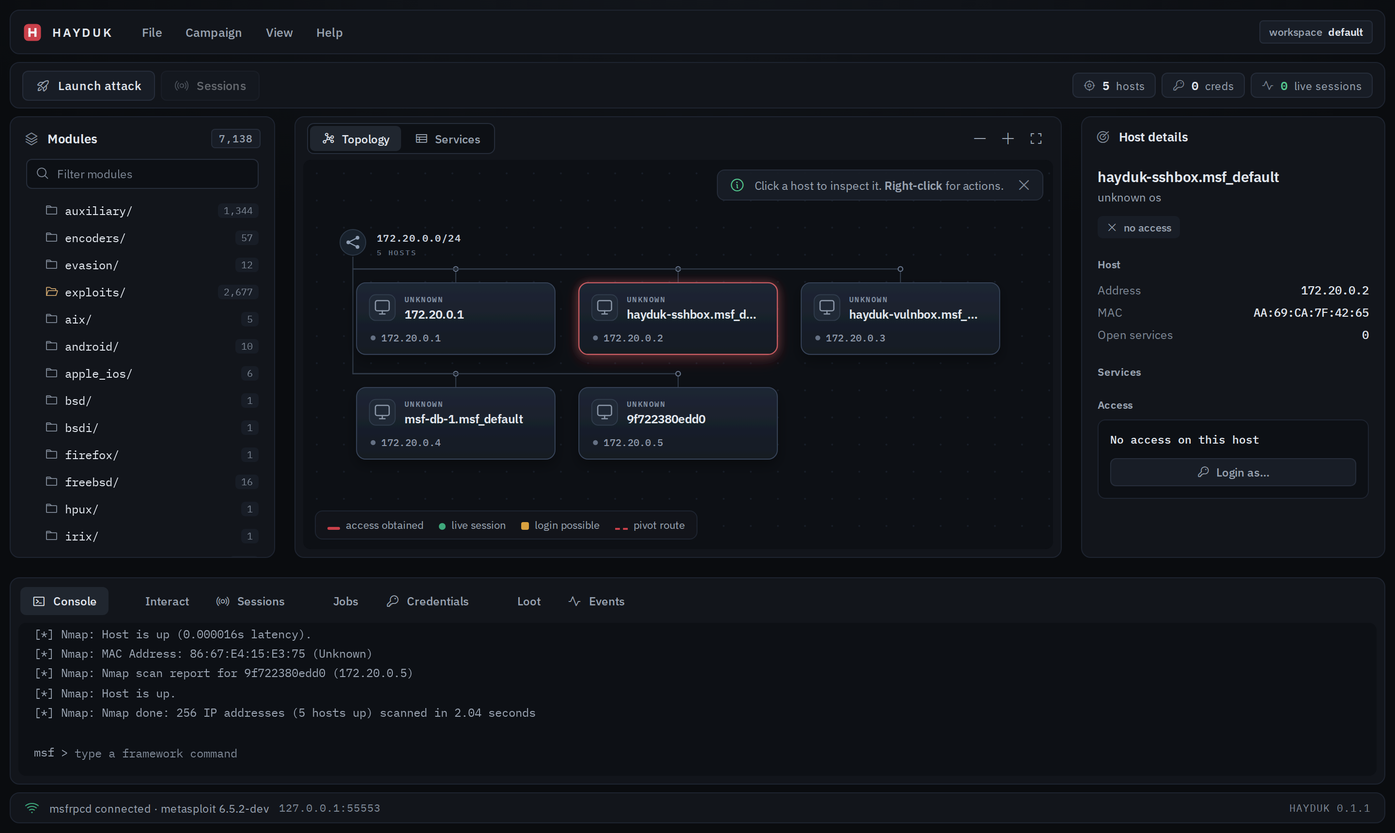
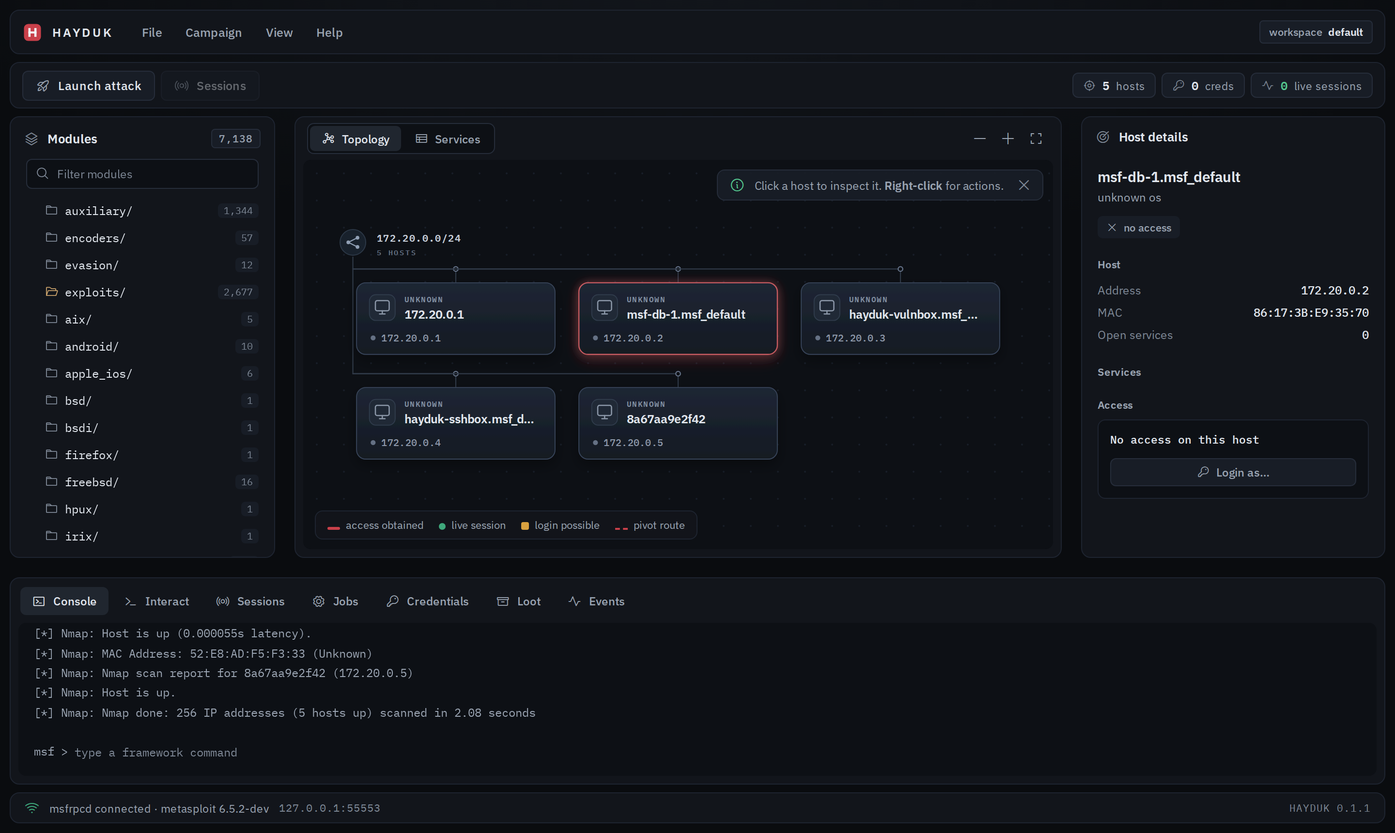
UI: ship every glyph the source renders, verify the subset
The icon scan could not see names built from data at runtime - tab
tuples, ternary icon values - so check, terminal, gear and archive were
missing from the subset: empty notebook tab icons and no workspace
checkmark in the shipped build. The scan now takes every quoted string
that is a real phosphor name (over-inclusion costs bytes, under-
inclusion costs icons), and a vitest guard asserts every renderable
glyph has a :before rule before the dist can ship. Screenshot retaken
with the tab icons back.

diff --git a/internal/server/dist/assets/index-DT3u4rux.css b/internal/server/dist/assets/index-DT3u4rux.css
@@ -1,0 +1,1 @@
+@font-face{font-family:IBM Plex Sans;font-style:normal;font-display:swap;font-weight:400;src:url(/assets/ibm-plex-sans-latin-400-normal-CDDApCn2.woff2)format("woff2"),url(/assets/ibm-plex-sans-latin-400-normal-CYLoc0-x.woff)format("woff")}@font-face{font-family:IBM Plex Sans;font-style:normal;font-display:swap;font-weight:500;src:url(/assets/ibm-plex-sans-latin-500-normal-6ng42L7E.woff2)format("woff2"),url(/assets/ibm-plex-sans-latin-500-normal-BgVn5rGT.woff)format("woff")}@font-face{font-family:IBM Plex Sans;font-style:normal;font-display:swap;font-weight:600;src:url(/assets/ibm-plex-sans-latin-600-normal-CuJfVYMP.woff2)format("woff2"),url(/assets/ibm-plex-sans-latin-600-normal-Cu4Hd6ag.woff)format("woff")}@font-face{font-family:IBM Plex Mono;font-style:normal;font-display:swap;font-weight:400;src:url(/assets/ibm-plex-mono-latin-400-normal-DMJ8VG8y.woff2)format("woff2"),url(/assets/ibm-plex-mono-latin-400-normal-CvHOgSBP.woff)format("woff")}@font-face{font-family:IBM Plex Mono;font-style:normal;font-display:swap;font-weight:500;src:url(/assets/ibm-plex-mono-latin-500-normal-DSY6xOcd.woff2)format("woff2"),url(/assets/ibm-plex-mono-latin-500-normal-CB9ihrfo.woff)format("woff")}@font-face{font-family:IBM Plex Mono;font-style:normal;font-display:swap;font-weight:600;src:url(/assets/ibm-plex-mono-latin-600-normal-BgSNZQsw.woff2)format("woff2"),url(/assets/ibm-plex-mono-latin-600-normal-DWFSQ4vo.woff)format("woff")}@font-face{font-family:Phosphor;src:url(/assets/phosphor-regular-DLvzip6m.woff2)format("woff2");font-weight:400;font-style:normal;font-display:block}@font-face{font-family:Phosphor-Fill;src:url(/assets/phosphor-fill-vd_PAWfC.woff2)format("woff2");font-weight:400;font-style:normal;font-display:block}.ph{font-variant:normal;text-transform:none;-webkit-font-smoothing:antialiased;-moz-osx-font-smoothing:grayscale;font-style:normal;font-weight:400;line-height:1;font-family:Phosphor!important}.ph-fill{font-variant:normal;text-transform:none;-webkit-font-smoothing:antialiased;-moz-osx-font-smoothing:grayscale;font-style:normal;font-weight:400;line-height:1;font-family:Phosphor-Fill!important}.ph.ph-archive:before,.ph-fill.ph-archive:before{content:""}.ph.ph-arrows-clockwise:before,.ph-fill.ph-arrows-clockwise:before{content:""}.ph.ph-arrows-out-simple:before,.ph-fill.ph-arrows-out-simple:before{content:""}.ph.ph-broadcast:before,.ph-fill.ph-broadcast:before{content:""}.ph.ph-check:before,.ph-fill.ph-check:before{content:""}.ph.ph-command:before,.ph-fill.ph-command:before{content:""}.ph.ph-copy:before,.ph-fill.ph-copy:before{content:""}.ph.ph-corners-out:before,.ph-fill.ph-corners-out:before{content:""}.ph.ph-crosshair:before,.ph-fill.ph-crosshair:before{content:""}.ph.ph-dots-nine:before,.ph-fill.ph-dots-nine:before{content:""}.ph.ph-download-simple:before,.ph-fill.ph-download-simple:before{content:""}.ph.ph-file-code:before,.ph-fill.ph-file-code:before{content:""}.ph.ph-fire:before,.ph-fill.ph-fire:before{content:""}.ph.ph-folder:before,.ph-fill.ph-folder:before{content:""}.ph.ph-folder-open:before,.ph-fill.ph-folder-open:before{content:""}.ph.ph-gear:before,.ph-fill.ph-gear:before{content:""}.ph.ph-graph:before,.ph-fill.ph-graph:before{content:""}.ph.ph-info:before,.ph-fill.ph-info:before{content:""}.ph.ph-key:before,.ph-fill.ph-key:before{content:""}.ph.ph-keyboard:before,.ph-fill.ph-keyboard:before{content:""}.ph.ph-lightning:before,.ph-fill.ph-lightning:before{content:""}.ph.ph-magnifying-glass:before,.ph-fill.ph-magnifying-glass:before{content:""}.ph.ph-minus:before,.ph-fill.ph-minus:before{content:""}.ph.ph-password:before,.ph-fill.ph-password:before{content:""}.ph.ph-pi:before,.ph-fill.ph-pi:before{content:""}.ph.ph-plug:before,.ph-fill.ph-plug:before{content:""}.ph.ph-plus:before,.ph-fill.ph-plus:before{content:""}.ph.ph-pulse:before,.ph-fill.ph-pulse:before{content:""}.ph.ph-resize:before,.ph-fill.ph-resize:before{content:""}.ph.ph-rocket-launch:before,.ph-fill.ph-rocket-launch:before{content:""}.ph.ph-signpost:before,.ph-fill.ph-signpost:before{content:""}.ph.ph-stack:before,.ph-fill.ph-stack:before{content:""}.ph.ph-table:before,.ph-fill.ph-table:before{content:""}.ph.ph-target:before,.ph-fill.ph-target:before{content:""}.ph.ph-terminal:before,.ph-fill.ph-terminal:before{content:""}.ph.ph-terminal-window:before,.ph-fill.ph-terminal-window:before{content:""}.ph.ph-tree:before,.ph-fill.ph-tree:before{content:""}.ph.ph-user:before,.ph-fill.ph-user:before{content:""}.ph.ph-users-three:before,.ph-fill.ph-users-three:before{content:""}.ph.ph-wifi-high:before,.ph-fill.ph-wifi-high:before{content:""}.ph.ph-wifi-slash:before,.ph-fill.ph-wifi-slash:before{content:""}.ph.ph-x:before,.ph-fill.ph-x:before{content:""}:root{--bg0:#0a0c0f;--bg1:#12151b;--bg2:#181d26;--bg3:#20262f;--well:#0d1015;--cardline:#1e2430;--line:#262d3a;--tx0:#e2e7ee;--tx1:#9aa4b2;--tx2:#7e8896;--red:#c9404a;--red-hi:#d54954;--red-br:#e2666b;--red-dim:#c9404a29;--grn:#3fa87c;--grn-tx:#55c78f;--grn-dim:#3fa87c29;--amb:#d9a13f;--amb-dim:#d9a13f24;--sans:"IBM Plex Sans",system-ui,-apple-system,"Segoe UI",sans-serif;--mono:"IBM Plex Mono",ui-monospace,"Cascadia Mono",Menlo,Consolas,monospace;--shadow:0 16px 46px #00000080}*{box-sizing:border-box;margin:0;padding:0}html,body{height:100%}body{background:var(--bg0);color:var(--tx0);font:400 13px/1.5 var(--sans);-webkit-font-smoothing:antialiased;background-image:radial-gradient(1200px 500px at 50% -10%,#262d3a59,#0000 70%);padding:10px;overflow:hidden}button{font:inherit;color:inherit;cursor:pointer;background:0 0;border:0}button:disabled{opacity:.4;cursor:not-allowed}:focus-visible{outline:2px solid var(--red-br);outline-offset:1px;border-radius:4px}::selection{background:var(--red-dim)}::-webkit-scrollbar{width:10px;height:10px}::-webkit-scrollbar-thumb{border:3px solid var(--bg1);background:#262d3a;border-radius:6px}::-webkit-scrollbar-track{background:0 0}*{scrollbar-width:thin;scrollbar-color:#262d3a transparent}i.ph,i.ph-fill{flex:none;justify-content:center;align-items:center;width:16px;height:16px;font-size:16px;display:inline-flex}kbd{font:500 10.5px var(--mono);background:var(--well);border:1px solid var(--line);color:var(--tx1);border-bottom-width:2px;border-radius:4px;padding:2px 6px}.app{grid-template-columns:var(--w-left,274px) 4px minmax(0,1fr) 4px var(--w-right,314px);grid-template-rows:auto auto minmax(0,1fr) 4px var(--h-nb,214px) auto;grid-template-areas:"men men men men men""tool tool tool tool tool""left lsp stage rsp right""nsp nsp nsp nsp nsp""nb nb nb nb nb""st st st st st";gap:8px;height:calc(100dvh - 20px);display:grid}.splitter{z-index:40;background:0 0;border-radius:2px;transition:background .12s}.splitter:hover,.splitter.active{background:var(--line)}.splitter.lsp{cursor:col-resize;grid-area:lsp;margin:-2px -8px}.splitter.rsp{cursor:col-resize;grid-area:rsp;margin:-2px -8px}.splitter.nsp{cursor:row-resize;grid-area:nsp;margin:-8px -2px}.card{background:var(--bg1);border:1px solid var(--cardline);border-radius:10px;min-width:0;min-height:0}.menubar{-webkit-user-select:none;user-select:none;grid-area:men;align-items:center;gap:2px;height:46px;padding:0 12px;display:flex}.brand{align-items:center;gap:10px;margin-right:16px;display:flex}.brand svg{display:block}.brand .word{font:600 12.5px var(--sans);letter-spacing:.15em}.mbtn{height:29px;font:500 12.5px var(--sans);color:var(--tx1);border-radius:6px;padding:0 11px}.mbtn:hover,.mbtn.open{background:var(--bg2);color:var(--tx0)}.menubar .spacer{flex:1}.chip{border:1px solid var(--line);background:var(--bg2);height:24px;font:500 11px var(--sans);color:var(--tx1);border-radius:4px;align-items:center;gap:6px;padding:0 9px;display:inline-flex}.chip b{color:var(--tx0);font-weight:600}.toolbar{-webkit-user-select:none;user-select:none;grid-area:tool;align-items:center;gap:6px;height:48px;padding:0 12px;display:flex}.tdiv{background:var(--line);width:1px;height:20px;margin:0 5px}.toolbar .spacer{flex:1}.sumchips{gap:6px;display:flex}.schip{background:var(--bg2);border:1px solid var(--line);height:26px;font:400 11.5px var(--sans);color:var(--tx1);border-radius:6px;align-items:center;gap:7px;padding:0 10px;display:inline-flex}.schip i{width:13px;height:13px;color:var(--tx2);font-size:13px}.schip b{font:600 12px var(--mono);color:var(--tx0)}.schip .grn{color:var(--grn-tx)}.left{flex-direction:column;grid-area:left;display:flex}.panelhead{align-items:center;gap:9px;padding:12px 14px 9px;display:flex}.panelhead>i{color:var(--tx2);width:15px;height:15px;font-size:15px}.panelhead .pt{font:600 13px var(--sans);color:var(--tx0)}.panelhead .pc{font:500 10.5px var(--mono);color:var(--tx1);background:var(--bg2);border:1px solid var(--line);border-radius:4px;margin-left:auto;padding:2px 7px}.tree{-webkit-user-select:none;user-select:none;flex:1;padding:2px 8px 14px;overflow-y:auto}.tree ul{list-style:none}.trow{width:100%;height:28px;font:400 12px var(--mono);color:var(--tx0);text-align:left;border-radius:6px;align-items:center;gap:7px;padding:0 8px;display:flex}.trow:hover{background:var(--bg2)}.trow .caret{color:var(--tx2);width:12px;height:12px;font-size:12px}.trow .fic{color:var(--tx2);width:14px;height:14px;font-size:14px}.trow.expanded .fic{color:#c7a06a}.trow .tlabel{text-overflow:ellipsis;white-space:nowrap;min-width:0;overflow:hidden}.trow .cnt{font:400 10px var(--mono);color:var(--tx2);background:var(--bg2);border-radius:4px;flex:none;margin-left:auto;padding:1px 6px}.trow.leaf{padding-left:37px}.trow.leaf .mfil{color:var(--tx2);width:13px;height:13px;font-size:13px}.trow .rankchip{font:500 9px var(--mono);letter-spacing:.05em;color:var(--tx2);background:var(--bg2);border-radius:4px;flex:none;margin-left:auto;padding:1px 5px}.trow .rankchip.hot{color:var(--red-br);border:1px solid var(--red);padding:0 4px}.tree .noresult{font:400 12px var(--sans);color:var(--tx2);padding:16px 12px;display:none}.tree.filtered .noresult{display:block}.tree .filterbox{margin:0 8px 8px}.stage{flex-direction:column;grid-area:stage;display:flex}.stagehead{-webkit-user-select:none;user-select:none;align-items:center;gap:10px;height:44px;padding:0 12px;display:flex}.stagehead .spacer{flex:1}.stagebody{background:var(--well);border-radius:8px;flex:1;margin:0 8px 8px;position:relative;overflow:hidden}.view{position:absolute;inset:0}.view[hidden]{display:none}#topo{cursor:default;touch-action:none;-webkit-user-select:none;user-select:none;width:100%;height:100%;display:block;position:absolute;inset:0}#topo.panning{cursor:grabbing}.svcwrap{padding:4px 8px 16px;position:absolute;inset:0;overflow:auto}.right{flex-direction:column;grid-area:right;display:flex}.ins{flex:1;padding:14px 16px 20px;overflow-y:auto}.ihost{justify-content:space-between;align-items:flex-start;gap:10px;display:flex}.iname{font:600 15px var(--sans)}.ios{font:400 12px var(--sans);color:var(--tx1);align-items:center;gap:6px;margin-top:4px;display:flex}.ios i{width:14px;height:14px;color:var(--tx2);font-size:14px}.badges{flex-wrap:wrap;gap:6px;margin-top:12px;display:flex}.inote{background:var(--well);border:1px solid var(--cardline);font:400 12px/1.55 var(--sans);color:var(--tx1);border-radius:6px;margin-top:12px;padding:9px 11px}.isec{margin-top:20px}.isec .ilabel{font:600 11px var(--sans);letter-spacing:.02em;color:var(--tx1);margin-bottom:8px}.kv{justify-content:space-between;gap:10px;padding:4px 0;display:flex}.kv b{font:400 12px var(--sans);color:var(--tx2);font-weight:400}.kv span{font:500 12px var(--mono)}.nb{flex-direction:column;grid-area:nb;display:flex}.nbtabs{-webkit-user-select:none;user-select:none;align-items:center;gap:4px;padding:9px 10px 0;display:flex}.nbtab{height:29px;font:500 12px var(--sans);color:var(--tx1);border-radius:6px;align-items:center;gap:8px;padding:0 12px;display:inline-flex}.nbtab i{width:14px;height:14px;font-size:14px}.nbtab:hover{background:var(--bg2);color:var(--tx0)}.nbtab.on{background:var(--bg3);color:var(--tx0)}.nbbody{background:var(--well);border-radius:8px;flex:1;min-height:0;margin:8px;position:relative;overflow:hidden}.nbpane{position:absolute;inset:0;overflow:auto}.nbpane[hidden]{display:none}.nbpane .dtwrap{padding:2px 6px 14px}.status{height:32px;font:400 11.5px var(--sans);color:var(--tx1);-webkit-user-select:none;user-select:none;grid-area:st;align-items:center;gap:10px;padding:0 14px;display:flex}.status i.wifi{color:var(--grn)}.status .addr{font:400 11px var(--mono);color:var(--tx2)}.status .spacer{flex:1}.status .ver{font:400 10.5px var(--mono);color:var(--tx2)}.narrownote{z-index:400;text-align:center;background:var(--bg0);font:400 13.5px/1.8 var(--sans);color:var(--tx1);justify-content:center;align-items:center;padding:30px;display:none;position:fixed;inset:0}.narrownote b{color:var(--tx0);font-weight:600}@media (max-width:960px){.app{display:none}.narrownote{display:flex}}.tbtn{border:1px solid var(--line);background:var(--bg2);height:31px;font:500 12.5px var(--sans);border-radius:6px;align-items:center;gap:8px;padding:0 13px;transition:background .12s,transform 50ms;display:inline-flex}.tbtn i{color:var(--tx1);width:15px;height:15px;font-size:15px}.tbtn:hover{background:var(--bg3)}.tbtn:hover i{color:var(--tx0)}.tbtn:active{transform:translateY(1px)}.tbtn.primary{background:var(--red);border-color:var(--red);color:#fff}.tbtn.primary i{color:#fff}.tbtn.primary:hover{background:var(--red-hi);border-color:var(--red-hi)}.tbtn .badge,.nbtab .badge{background:var(--red-dim);min-width:17px;height:16px;color:var(--red-br);font:600 10px var(--mono);border-radius:4px;justify-content:center;align-items:center;padding:0 4px;display:inline-flex}.nbtab .badge.jobs{background:var(--grn-dim);color:var(--grn-tx)}.filterbox{position:relative}.filterbox>i{color:var(--tx2);width:14px;height:14px;font-size:14px;position:absolute;top:8px;left:10px}.filterbox input{background:var(--well);border:1px solid var(--line);width:100%;height:31px;font:400 12px var(--mono);color:var(--tx0);border-radius:6px;padding:0 9px 0 31px}.filterbox input::placeholder{color:var(--tx2);font-family:var(--sans)}.filterbox input:focus{border-color:var(--red);outline:none}.menuwrap{position:relative}.dropdown{z-index:80;background:var(--bg2);border:1px solid var(--line);min-width:238px;box-shadow:var(--shadow);border-radius:10px;padding:6px;position:absolute;top:calc(100% + 5px);left:0}.ditem{width:100%;height:31px;font:400 12.5px var(--sans);color:var(--tx0);text-align:left;border-radius:6px;align-items:center;gap:10px;padding:0 10px;display:flex}.ditem i{color:var(--tx1)}.ditem:hover:not(:disabled){background:var(--bg3)}.ditem .kbd{margin-left:auto}.ditem .tick{visibility:hidden;color:var(--grn-tx);margin-left:auto}.ditem.on .tick{visibility:visible}.ditem.danger,.ditem.danger i{color:var(--red-br)}.dsep{background:var(--line);height:1px;margin:6px 8px}.seg{background:var(--well);border:1px solid var(--line);border-radius:7px;gap:2px;padding:2px;display:flex}.seg button{height:26px;font:500 12px var(--sans);color:var(--tx1);border-radius:5px;align-items:center;gap:7px;padding:0 12px;display:inline-flex}.seg button i{width:14px;height:14px;font-size:14px}.seg button:hover{color:var(--tx0)}.seg button.on{background:var(--bg3);color:var(--tx0)}.zoomui{align-items:center;gap:2px;display:flex}.zbtn{width:27px;height:27px;color:var(--tx1);border-radius:6px;justify-content:center;align-items:center;display:inline-flex}.zbtn:hover{background:var(--bg2);color:var(--tx0)}.zpct{text-align:center;min-width:46px;font:500 11px var(--mono);color:var(--tx1)}.stagebody.gridbg #topo{background-image:radial-gradient(circle,#171d27 1px,#0000 1px);background-size:28px 28px}#topo{background-color:var(--well);shape-rendering:geometricprecision}#topo text{-webkit-user-select:none;user-select:none;pointer-events:none}#topo .topo-zone-icon-bg{fill:#18212c;stroke:#2d3948;stroke-width:1px}#topo .topo-zone-icon{fill:#91a0b5}#topo .topo-zone-link{fill:none;stroke:#91a0b5;stroke-width:1.25px;stroke-linecap:round}#topo .topo-zone-name{fill:#cbd3de;font:600 10.5px var(--mono);letter-spacing:.07em}#topo .topo-zone-meta{fill:#647083;font:600 8px var(--mono);letter-spacing:.12em}#topo .topo-zone-spine,#topo .topo-zone-branch{fill:none;stroke:#303a48;stroke-width:1.15px;stroke-linecap:round;stroke-linejoin:round}#topo .topo-zone-junction{fill:var(--well);stroke:#66748a;stroke-width:1.2px}#topo .topo-zone-routed rect{fill:var(--red-dim);stroke:#e2666b59;stroke-width:1px}#topo .topo-zone-routed circle,#topo .topo-route-port{fill:var(--red-br)}#topo .topo-zone-routed text{fill:var(--red-br);font:600 8px var(--mono);letter-spacing:.08em}#topo .topo-route-port{stroke:#2b1115;stroke-width:3px}#topo .topo-route-halo,#topo .topo-route-line{fill:none}#topo .topo-route-halo{stroke:var(--well);stroke-width:6px;opacity:.9}#topo .topo-route-line{stroke:var(--red-br);stroke-width:1.7px;stroke-dasharray:7 6;stroke-linecap:round;opacity:.88}#topo #topo-route-arrow path{fill:var(--red-br)}#topo .topo-route-label rect{fill:#17131a;stroke:#e2666b59;stroke-width:1px}#topo .topo-route-label text{fill:#d96a70;text-anchor:middle;font:600 8px var(--mono);letter-spacing:.055em}#topo .topo-routes g,#topo .topo-ghost{cursor:context-menu}#topo .topo-node{cursor:grab;outline:none}#topo .topo-node:active{cursor:grabbing}#topo .topo-node-shell{fill:url(#topo-node-fill);stroke:#39455a;stroke-width:1px;filter:url(#topo-node-shadow);transition:filter .14s,stroke .14s}#topo .topo-node:hover .topo-node-shell{stroke:#4e5d7a;filter:url(#topo-node-shadow)brightness(1.08)}#topo .topo-node.selected .topo-node-shell,#topo .topo-node:focus-visible .topo-node-shell{stroke:#e2666bd9;stroke-width:1.25px;filter:url(#topo-node-shadow)url(#topo-node-glow)}#topo .topo-device-bg{fill:#202936;stroke:#303c4c;stroke-width:1px}#topo .topo-device-screen,#topo .topo-device-stand{fill:none;stroke:#8b97a8;stroke-width:1.35px;stroke-linecap:round;stroke-linejoin:round}#topo .topo-device.win .topo-device-bg{fill:#4a9bd821;stroke:#4a9bd852}#topo .topo-device.win .topo-device-screen,#topo .topo-device.win .topo-device-stand{stroke:#69afe2}#topo .topo-device.linux .topo-device-bg{fill:#a8c44a1f;stroke:#a8c44a4d}#topo .topo-device.linux .topo-device-screen,#topo .topo-device.linux .topo-device-stand{stroke:#aec967}#topo .topo-node-os{fill:#8290a2;font:600 8.5px var(--mono);letter-spacing:.095em}#topo .topo-node-os.win{fill:#69afe2}#topo .topo-node-os.linux{fill:#aec967}#topo .topo-node-name{fill:var(--tx0);font:600 13px var(--sans)}#topo .topo-address-dot{fill:#657184}#topo .topo-node-address{fill:#909bad;font:500 10.5px var(--mono);letter-spacing:.015em}#topo .topo-state rect{stroke-width:1px}#topo .topo-state text{font:700 7.5px var(--mono);letter-spacing:.075em}#topo .topo-state.access rect{fill:#c9404a24;stroke:#e2666b61}#topo .topo-state.access text{fill:var(--red-br)}#topo .topo-live-dot{fill:var(--grn)}#topo .topo-live-halo{fill:none;stroke:var(--grn);stroke-width:1px;animation:2.4s ease-out infinite topo-pulse}#topo .topo-state.login rect{fill:var(--amb-dim);stroke:#d9a13f59}#topo .topo-state.login circle,#topo .topo-state.login text{fill:var(--amb)}@keyframes topo-pulse{0%{r:3;opacity:.65}75%,to{r:8;opacity:0}}#topo .topo-ghost-shell{fill:#c9404a0e;stroke:#e2666b7a;stroke-width:1px;stroke-dasharray:7 5}#topo .topo-ghost-icon-bg{fill:#c9404a1a;stroke:#e2666b47;stroke-width:1px}#topo .topo-ghost-icon{fill:var(--red-br)}#topo .topo-ghost-link{fill:none;stroke:var(--red-br);stroke-width:1.3px;stroke-linecap:round}#topo .topo-ghost-kicker{fill:#b95860;font:600 8px var(--mono);letter-spacing:.12em}#topo .topo-ghost-address{fill:#e08a8f;font:600 11.5px var(--mono)}#topo .topo-ghost-meta{fill:#82545b;font:600 7.5px var(--mono);letter-spacing:.1em}#topo .topo-empty text{fill:var(--tx1);text-anchor:middle;font:600 13px var(--sans)}#topo .topo-empty .topo-empty-sub{fill:var(--tx2);font:400 11.5px var(--sans)}.legend{z-index:5;border:1px solid var(--cardline);font:400 11px var(--sans);color:var(--tx1);-webkit-user-select:none;user-select:none;pointer-events:none;background:#12151beb;border-radius:8px;align-items:center;gap:16px;padding:7px 12px;display:flex;position:absolute;bottom:10px;left:12px}.legend i.sw{vertical-align:-1px;margin-right:6px;display:inline-block}.legend .strip{background:var(--red);border-radius:2px;width:13px;height:3px}.legend .dot{background:var(--grn);border-radius:99px;width:7px;height:7px}.legend .sq{background:var(--amb);border-radius:2px;width:8px;height:8px}.legend .dash{border-top:2px dashed var(--red);width:13px;height:0}.tipbar{z-index:6;border:1px solid var(--line);height:32px;font:400 12px var(--sans);color:var(--tx1);-webkit-user-select:none;user-select:none;white-space:nowrap;background:#181d26f2;border-radius:8px;align-items:center;gap:10px;padding:0 8px 0 12px;display:flex;position:absolute;top:10px;right:10px}.tipbar i.info{color:var(--grn-tx)}.tipbar button{width:22px;height:22px;color:var(--tx2);border-radius:5px;justify-content:center;align-items:center;display:inline-flex}.tipbar button:hover{background:var(--bg3);color:var(--tx0)}table.dt{border-collapse:collapse;width:100%}table.dt th{z-index:2;background:var(--well);font:600 10.5px var(--sans);letter-spacing:.08em;text-align:left;color:var(--tx2);border-bottom:1px solid var(--line);padding:10px 12px 8px;position:sticky;top:0}table.dt td{white-space:nowrap;padding:7px 12px;font-size:12.5px}table.dt td.m{font:400 12px var(--mono);color:var(--tx1)}table.dt td b{font-weight:600}table.dt tbody tr{cursor:default}table.dt tbody tr:hover{background:var(--bg1)}table.dt tbody tr.sel{background:var(--bg2)}table.dt .st{color:var(--grn-tx);font-family:var(--mono);font-size:11.5px}table.dt td.dtempty{font:400 12px/1.6 var(--sans);color:var(--tx2);white-space:normal;padding:26px 14px}table.dt .dim{color:var(--tx1)}.bdg{height:23px;font:500 11px var(--sans);border-radius:5px;align-items:center;gap:6px;padding:0 9px;display:inline-flex}.bdg i{width:12px;height:12px;font-size:12px}.bdg.red{background:var(--red-dim);color:var(--red-br)}.bdg.grn{background:var(--grn-dim);color:var(--grn-tx)}.bdg.amb{background:var(--amb-dim);color:var(--amb)}.bdg.gry{background:var(--bg2);color:var(--tx1)}.portrow{align-items:baseline;gap:9px;padding:5px 0;display:flex}.pchip{font:500 11px var(--mono);color:var(--tx1);background:var(--well);border:1px solid var(--cardline);border-radius:4px;flex:none;padding:2px 7px}.portrow .pn{font:500 12.5px var(--sans)}.portrow .pi{font:400 11px var(--mono);color:var(--tx2);text-overflow:ellipsis;white-space:nowrap;overflow:hidden}.acc{border:1px solid var(--cardline);background:var(--well);border-radius:8px;padding:12px}.acc .aline{font:400 11.5px var(--mono);color:var(--tx1);word-break:break-all;margin-top:7px}.acc .aline:first-of-type{margin-top:0}.acc .aline b{color:var(--tx0);font-weight:500}.abtns{gap:6px;margin-top:12px;display:flex}.abtn{border:1px solid var(--line);background:var(--bg2);height:29px;font:500 12px var(--sans);border-radius:6px;flex:1;justify-content:center;align-items:center;gap:7px;display:inline-flex}.abtn i{width:13px;height:13px;color:var(--tx1);font-size:13px}.abtn:hover:not(:disabled){background:var(--bg3)}.abtn:active{transform:translateY(1px)}.console{height:100%;font:400 12px/1.7 var(--mono);padding:12px 16px 14px;overflow:auto}.console .cl{white-space:pre;color:var(--tx0)}.console .cl.out{color:var(--tx1)}.console .cl.ok{color:var(--grn-tx)}.console .cl.dim{color:var(--tx2)}.console .inputline{white-space:pre;align-items:center;display:flex}.console .inputline .pr{color:var(--tx1)}.console input{min-width:60px;font:400 12px var(--mono);color:var(--tx0);caret-color:var(--red-br);background:0 0;border:0;outline:0;flex:1}.console input::placeholder{color:var(--tx2)}.events{padding:6px 4px}.evline{border-radius:6px;gap:14px;padding:6px 14px;display:flex}.evline:hover{background:var(--bg1)}.evline time{font:400 11px var(--mono);color:var(--tx2);flex:none;padding-top:1px}.evline p{font:400 12.5px var(--sans);color:var(--tx1)}.evline p b{color:var(--tx0);font-weight:600}.ctx{z-index:300;background:var(--bg2);border:1px solid var(--line);min-width:238px;box-shadow:var(--shadow);border-radius:10px;padding:6px;display:none;position:fixed}.ctx.show{display:block}.chead{padding:8px 10px 7px}.chead .chn{font:600 12.5px var(--sans)}.chead .chi{font:400 10.5px var(--mono);color:var(--tx2);margin-top:1px}.citem{width:100%;height:30px;font:400 12.5px var(--sans);color:var(--tx0);text-align:left;border-radius:6px;align-items:center;gap:10px;padding:0 10px;display:flex}.citem i{color:var(--tx1)}.citem:hover{background:var(--bg3)}.citem.danger,.citem.danger i{color:var(--red-br)}.citem .hint{font:400 10.5px var(--mono);color:var(--tx2);margin-left:auto}.csep{background:var(--line);height:1px;margin:6px 8px}#statusflash{color:var(--red-br);opacity:0;transition:opacity .25s}#statusflash.show{opacity:1}.modalback{z-index:200;background:#06080aa8;justify-content:center;align-items:center;display:flex;position:fixed;inset:0}.modal{background:var(--bg1);border:1px solid var(--line);width:420px;max-width:calc(100vw - 40px);max-height:calc(100vh - 80px);box-shadow:var(--shadow);border-radius:12px;padding:24px 26px 22px;overflow:auto}.modal:focus{outline:none}.modal .mhead{align-items:center;gap:12px;display:flex}.modal .mhead svg.mark{flex:none;width:28px;height:28px}.modal .mtitle{font:600 17px var(--sans)}.modal .mver{font:500 11px var(--mono);color:var(--red-br);margin-top:2px}.modal p{font:400 12.5px/1.65 var(--sans);color:var(--tx1);margin-top:14px}.modal .mbtns{justify-content:flex-end;margin-top:20px;display:flex}.modal .mbtns .abtn{flex:none;padding:0 20px}.klist{flex-direction:column;gap:11px;margin-top:16px;display:flex}.krow{font:400 12.5px var(--sans);color:var(--tx1);align-items:center;gap:12px;display:flex}.krow .keys{gap:4px;min-width:86px;display:flex}.modal input[type=text],.modal input[type=password],.modal input[type=number],.modal input:not([type]),.modal select{background:var(--well);border:1px solid var(--line);font:400 12px var(--mono);color:var(--tx0);border-radius:6px;width:100%;padding:6px 9px}.modal .kv{align-content:start;gap:4px;display:grid}.modal input.invalid{border-color:var(--red-br)}.modal .kv b{font:500 11px var(--sans);color:var(--tx1)}.fmatch{background:var(--well);border:1px solid var(--line);border-radius:7px;align-items:center;gap:10px;padding:7px 10px;display:flex}.fmatch .fminfo{flex:1;gap:2px;min-width:0;display:grid}.fmatch .fmname{font:400 12px var(--mono);color:var(--tx0);text-overflow:ellipsis;white-space:nowrap;overflow:hidden}.fmatch .fmreason{font:400 11px var(--sans);color:var(--tx2)}.events .opchip{font:500 9.5px var(--mono);letter-spacing:.05em;color:var(--tx2);border:1px solid var(--line);vertical-align:1px;border-radius:4px;margin-left:8px;padding:0 5px}@media (prefers-reduced-motion:reduce){*,:before,:after{transition:none!important;animation:none!important}}

diff --git a/ui/src/styles/icons.css b/ui/src/styles/icons.css
@@ -33,12 +33,18 @@
   -webkit-font-smoothing: antialiased;
   -moz-osx-font-smoothing: grayscale;
 }
+.ph.ph-archive:before { content: "\e00c"; }
+.ph-fill.ph-archive:before { content: "\e00c"; }
 .ph.ph-arrows-clockwise:before { content: "\e094"; }
 .ph-fill.ph-arrows-clockwise:before { content: "\e094"; }
 .ph.ph-arrows-out-simple:before { content: "\e0a6"; }
 .ph-fill.ph-arrows-out-simple:before { content: "\e0a6"; }
 .ph.ph-broadcast:before { content: "\e0f2"; }
 .ph-fill.ph-broadcast:before { content: "\e0f2"; }
+.ph.ph-check:before { content: "\e182"; }
+.ph-fill.ph-check:before { content: "\e182"; }
+.ph.ph-command:before { content: "\e1c4"; }
+.ph-fill.ph-command:before { content: "\e1c4"; }
 .ph.ph-copy:before { content: "\e1ca"; }
 .ph-fill.ph-copy:before { content: "\e1ca"; }
 .ph.ph-corners-out:before { content: "\e1d0"; }
@@ -57,6 +63,8 @@
 .ph-fill.ph-folder:before { content: "\e24a"; }
 .ph.ph-folder-open:before { content: "\e256"; }
 .ph-fill.ph-folder-open:before { content: "\e256"; }
+.ph.ph-gear:before { content: "\e270"; }
+.ph-fill.ph-gear:before { content: "\e270"; }
 .ph.ph-graph:before { content: "\eb58"; }
 .ph-fill.ph-graph:before { content: "\eb58"; }
 .ph.ph-info:before { content: "\e2ce"; }
@@ -71,12 +79,18 @@
 .ph-fill.ph-magnifying-glass:before { content: "\e30c"; }
 .ph.ph-minus:before { content: "\e32a"; }
 .ph-fill.ph-minus:before { content: "\e32a"; }
+.ph.ph-password:before { content: "\e752"; }
+.ph-fill.ph-password:before { content: "\e752"; }
+.ph.ph-pi:before { content: "\ec80"; }
+.ph-fill.ph-pi:before { content: "\ec80"; }
 .ph.ph-plug:before { content: "\e946"; }
 .ph-fill.ph-plug:before { content: "\e946"; }
 .ph.ph-plus:before { content: "\e3d4"; }
 .ph-fill.ph-plus:before { content: "\e3d4"; }
 .ph.ph-pulse:before { content: "\e000"; }
 .ph-fill.ph-pulse:before { content: "\e000"; }
+.ph.ph-resize:before { content: "\ed6e"; }
+.ph-fill.ph-resize:before { content: "\ed6e"; }
 .ph.ph-rocket-launch:before { content: "\e3fe"; }
 .ph-fill.ph-rocket-launch:before { content: "\e3fe"; }
 .ph.ph-signpost:before { content: "\e89c"; }
@@ -87,8 +101,14 @@
 .ph-fill.ph-table:before { content: "\e476"; }
 .ph.ph-target:before { content: "\e47c"; }
 .ph-fill.ph-target:before { content: "\e47c"; }
+.ph.ph-terminal:before { content: "\e47e"; }
+.ph-fill.ph-terminal:before { content: "\e47e"; }
 .ph.ph-terminal-window:before { content: "\eae8"; }
 .ph-fill.ph-terminal-window:before { content: "\eae8"; }
+.ph.ph-tree:before { content: "\e6da"; }
+.ph-fill.ph-tree:before { content: "\e6da"; }
+.ph.ph-user:before { content: "\e4c2"; }
+.ph-fill.ph-user:before { content: "\e4c2"; }
 .ph.ph-users-three:before { content: "\e68e"; }
 .ph-fill.ph-users-three:before { content: "\e68e"; }
 .ph.ph-wifi-high:before { content: "\e4ea"; }

diff --git a/ui/src/styles/icons.test.ts b/ui/src/styles/icons.test.ts
@@ -1,0 +1,51 @@
+import { readFileSync, readdirSync } from "node:fs";
+import { dirname, join } from "node:path";
+import { fileURLToPath } from "node:url";
+import { describe, expect, it } from "vitest";
+
+const here = dirname(fileURLToPath(import.meta.url));
+const srcRoot = join(here, "..");
+
+function phosphorNames(weight: "regular" | "fill"): Set<string> {
+  const css = readFileSync(
+    join(here, "..", "..", "node_modules", "@phosphor-icons", "web", "src", weight, "style.css"),
+    "utf8",
+  );
+  const prefix = weight === "fill" ? "ph-fill" : "ph";
+  return new Set([...css.matchAll(new RegExp(`\\.${prefix}\\.ph-([a-z0-9-]+):before`, "g"))].map(m => m[1]!));
+}
+
+// every icon name the source can render: ph- class usages plus any quoted
+// string that is a real phosphor name (covers names built from data at
+// runtime - menu items, tab tuples, ternaries)
+function referencedNames(): Set<string> {
+  const names = new Set<string>();
+  const walk = (dir: string) => {
+    for (const ent of readdirSync(dir, { withFileTypes: true })) {
+      const p = join(dir, ent.name);
+      if (ent.isDirectory()) { walk(p); continue; }
+      if (!/\.(tsx?|css)$/.test(ent.name)) continue;
+      const text = readFileSync(p, "utf8");
+      for (const m of text.matchAll(/\bph-([a-z0-9-]+)/g)) names.add(m[1]!);
+      for (const m of text.matchAll(/(["'])([a-z0-9][a-z0-9-]*)\1/g)) names.add(m[2]!);
+    }
+  };
+  walk(srcRoot);
+  for (const w of ["fill", "bold", "thin", "light", "duotone"]) names.delete(w);
+  names.add("folder-open"); // template suffix, not a literal
+  return names;
+}
+
+function shippedNames(): Set<string> {
+  const css = readFileSync(join(here, "icons.css"), "utf8");
+  return new Set([...css.matchAll(/\.ph(?:-fill)?\.ph-([a-z0-9-]+):before/g)].map(m => m[1]!));
+}
+
+describe("icon subset", () => {
+  it("ships every icon the source can render", () => {
+    const known = phosphorNames("regular");
+    const shipped = shippedNames();
+    const missing = [...referencedNames()].filter(n => known.has(n) && !shipped.has(n));
+    expect(missing).toEqual([]);
+  });
+});

diff --git a/internal/server/dist/index.html b/internal/server/dist/index.html
@@ -7,8 +7,8 @@
   <meta name="theme-color" content="#0a0c0f" />
   <title>Hayduk - Metasploit attack console</title>
   <link rel="icon" type="image/svg+xml" href="/favicon.svg" />
-  <script type="module" crossorigin src="/assets/index-2aGCYX50.js"></script>
-  <link rel="stylesheet" crossorigin href="/assets/index-CmSDba07.css">
+  <script type="module" crossorigin src="/assets/index-BGxCX65F.js"></script>
+  <link rel="stylesheet" crossorigin href="/assets/index-DT3u4rux.css">
 </head>
 <body>
 </body>
